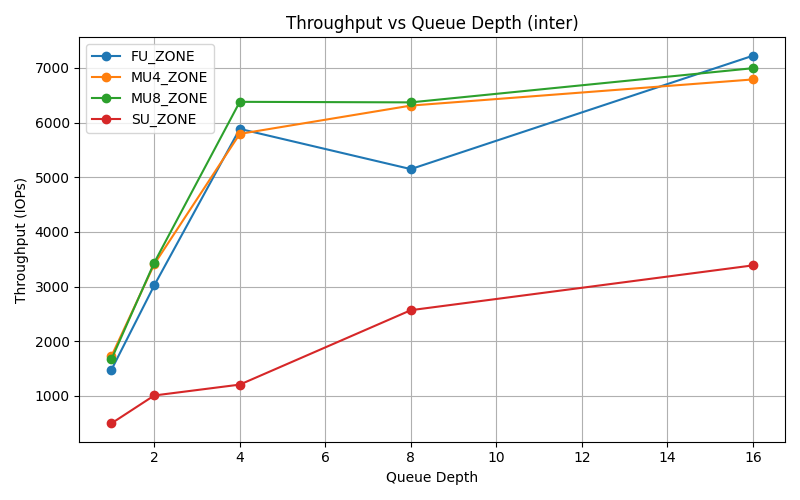
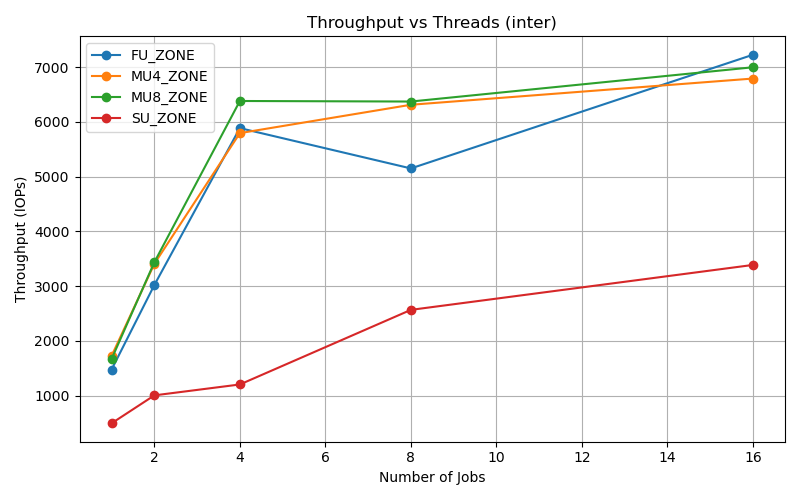
added graphs for disk utilization

diff --git a/scripts/create_graphs2.py b/scripts/create_graphs2.py
@@ -2,16 +2,17 @@ import os
 import json
 import matplotlib.pyplot as plt
 
+# Second graph script to test disk utilization
 BASE_DIR = "../results/csv"
 CONCURRENCY_LEVELS = [1, 2, 4, 8, 16, 32, 64]
 
 GEOMETRIES = ["FU_ZONE", "MU4_ZONE", "MU8_ZONE", "SU_ZONE"]
 MODES = ["intra"]
 
-def get_iops_from_file(filepath):
+def get_disk_util_from_file(filepath):
     with open(filepath) as f:
         data = json.load(f)
-        return data["jobs"][0]["write"]["iops"]
+        return data["disk_util"][0]["util"]
 
 def collect_data(mode):
     results = {}
@@ -24,7 +25,7 @@ def collect_data(mode):
             filename = next((f for f in os.listdir(full_path) if f.startswith(match_prefix)), None)
             if filename:
                 filepath = os.path.join(full_path, filename)
-                y_values.append(get_iops_from_file(filepath))
+                y_values.append(get_disk_util_from_file(filepath))
             else:
                 y_values.append(0)
         results[geometry] = y_values
@@ -35,12 +36,12 @@ def plot_data(results, mode):
     for geometry, y_values in results.items():
         plt.plot(CONCURRENCY_LEVELS, y_values, marker='o', label=geometry)
     plt.xlabel("Queue Depth")
-    plt.ylabel("Throughput (IOPs)")
-    plt.title(f"Throughput vs Queue Depth")
+    plt.ylabel("Disk Utilization")
+    plt.title(f"Utilization vs IO")
     plt.legend()
     plt.grid(True)
     plt.tight_layout()
-    plt.savefig(f"throughput_{mode}.png")
+    plt.savefig(f"utilization_{mode}.png")
     plt.show()
 
 if __name__ == "__main__":
